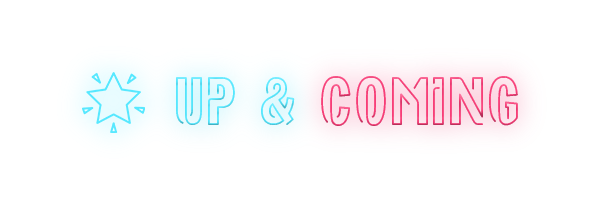
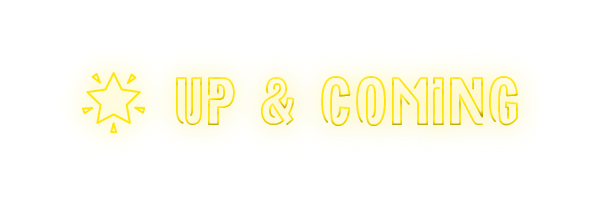
Updated Neon Signs

Changed region(s): [[0.42, 0.36, 0.87, 0.63], [0.27, 0.36, 0.39, 0.63], [0.12, 0.36, 0.24, 0.66]]

diff --git a/static/data.js b/static/data.js
@@ -12,7 +12,7 @@ const HIGHLIGHTS = {
     name: 'Summer Shandy',
     nameDisplay: 'Summer Shandy',
     description: 'Leinenkugel’s® Summer Shandy® is our traditional weiss beer with refreshing natural lemonade flavor that makes it the perfect summer beer.\nPairs with: BBQ chicken, fruit salads, watermelon and freshly caught, grilled fish.',
-    highlightDesc: 'Weiss beer with natural lemonade flavor.',
+    highlightDesc: 'Weiss Beer. Natural Lemonade Flavor.',
     abv: '4.2',
     ibu: '11',
     styleId: 25,
@@ -38,8 +38,8 @@ const HIGHLIGHTS = {
     {
     name: 'Samuel Adams Summer Ale',
     nameDisplay: 'Samuel Adams Summer Ale',
-    description: 'This American wheat ale is synonymouswith summer. Our blend of orange, lemon& lime peels enhances the spicy, citrusy Hallertau Mittelfrüh Noble hops. Grains of paradise accent the crisp wheat character  with a subtle spice that finishes  clean. Iconic as it is refreshing,Summer Ale is just right for any summer day.',
-    highlightDesc: 'Fresh American Wheat Ale',
+    description: 'This American wheat ale is synonymous with summer. Our blend of orange, lemon & lime peels enhances the spicy, citrusy Hallertau Mittelfrüh Noble hops. Grains of paradise accent the crisp wheat character  with a subtle spice that finishes  clean. Iconic as it is refreshing, Summer Ale is just right for any summer day.',
+    highlightDesc: 'Fresh Wheat Ale. Citrusy Blend of Orange, Lemon & Lime peels.',
     abv: '5.3',
     ibu: '7',
     styleId: 25,
@@ -72,7 +72,7 @@ const HIGHLIGHTS = {
     name: 'United in Orange',
     nameDisplay: 'United in Orange',
     description: 'United in Orange Pale Ale is brewed with orange juice and orange peel making it a Mile High favorite. A pale ale at its core, United in Orange is moderately hopped to provide balance to the sweetness derived from pale malt and orange juice. Mandarin hops impart subtle aromas of tangerine and citrus which complements the orange flavors.',
-    highlightDesc: 'Pale Ale brewed with Orange Juice.',
+    highlightDesc: 'Pale Ale brewed with Orange Juice & Orange Peel.',
     abv: '5.3',
     ibu: '30',
     styleId: 25,

diff --git a/server.js b/server.js
@@ -59,7 +59,7 @@ app
       return handle(req, res);
     })
 
-    server.listen(3000, err => {
+    server.listen(process.env.PORT || 3000, err => {
       if (err) throw err;
       console.log('> Ready on http://localhost:3000');
     })
